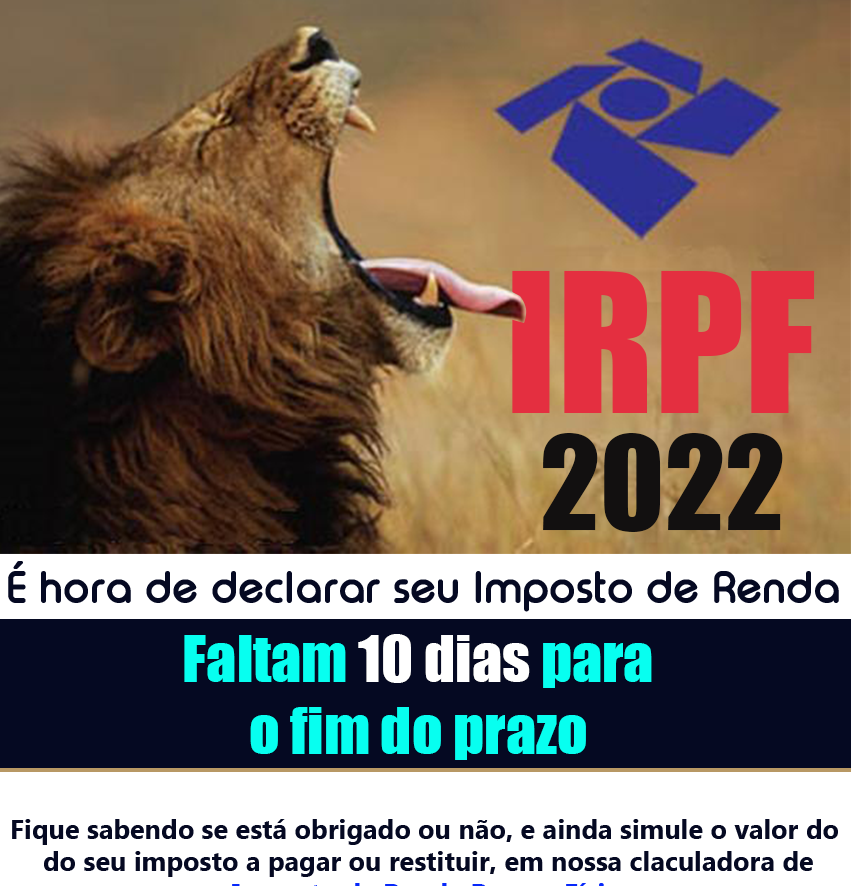
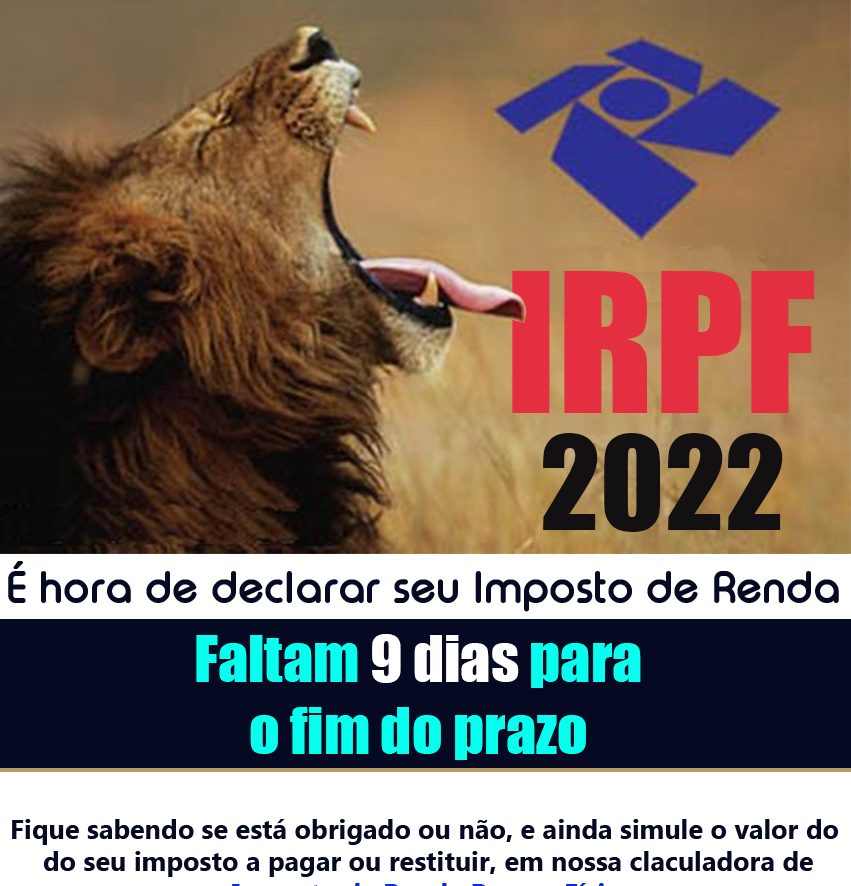
Commit img Prazo final IR 9 dias

Changed region(s): [[0.2139, 0.7009, 0.7638, 0.7923]]

diff --git a/src/site/Components/parceiros.jsx b/src/site/Components/parceiros.jsx
@@ -4,55 +4,55 @@ function Parceiros(){
     return <section id="parceiros">   
         <div className="parceiros-logos">  
         <div className="container">
-        <div className="row coluna1">
-            <div className="col"></div>
-            <div className="col"></div>
-            <div className="col">
-               <a href="https://imperio-dos-descartaveis.kyte.site/" target="_blank"><img src="/Images/Parceiros/ImperioDescartaveis.png"/></a>
+            <div className="row coluna1">
+                <div className="col"></div>
+                <div className="col"></div>
+                <div className="col">
+                <a href="https://imperio-dos-descartaveis.kyte.site/" target="_blank"><img src="/Images/Parceiros/ImperioDescartaveis.png"/></a>
+                </div>
+                <div className="col">
+                    <a href="https://api.whatsapp.com/send?phone=5581997780156" target="_blank"><img src="/Images/Parceiros/Diniz-contabilidade.png"/></a>
+                </div>
+                <div className="col">
+                    <a href="https://go.hotmart.com/H67767543F?ap=305a" target="_blank"><img src="/Images/Parceiros/Vargas.png"/></a>
+                </div>
+                <div className="col">
+                    <a href="https://api.whatsapp.com/send?phone=5581998753986" target="_blank"><img src="/Images/Parceiros/OGS.png"/></a>
+                </div>
+                <div className="col"></div>
+                <div className="col"></div>
             </div>
-            <div className="col">
-                <a href="https://api.whatsapp.com/send?phone=5581997780156" target="_blank"><img src="/Images/Parceiros/Diniz-contabilidade.png"/></a>
+            <div className="row coluna2">
+                <div className="col"></div>
+                <div className="col">
+                    <a href="https://aws.amazon.com/pt/" target="_blank"><img src="/Images/Parceiros/AWS.png"/></a>
+                </div>
+                <div className="col">
+                    <a href="/parceiro-certificacao-digital" target="_blank"><img src="/Images/Parceiros/Certificado.digital.png"/></a>
+                </div>
+                <div className="col">
+                    <a href="https://osayk.com.br/" target="_blank"><img src="/Images/Parceiros/Osayk.png"/></a>
+                </div>
+                <div className="col">
+                    <a href="https://jhmateriaisparaconstrucao.com/" target="_blank"><img src="/Images/Parceiros/JH.png"/></a>
+                </div>
+                <div className="col">
+                    <a href="https://github.com/" target="_blank"><img src="/Images/Parceiros/GitHub.png"/></a>
+                </div>
+                <div className="col">
+                    <a href="#" target="_blank"><img src="/Images/Parceiros/Torne-se-parceiro.png"/></a>
+                </div>
+                <div className="col"></div>
             </div>
-            <div className="col">
-                <a href="https://go.hotmart.com/H67767543F?ap=305a" target="_blank"><img src="/Images/Parceiros/Vargas.png"/></a>
-            </div>
-            <div className="col">
-                <a href="https://api.whatsapp.com/send?phone=5581998753986" target="_blank"><img src="/Images/Parceiros/OGS.png"/></a>
-            </div>
-            <div className="col"></div>
-            <div className="col"></div>
         </div>
-        <div className="row coluna2">
-            <div className="col"></div>
-            <div className="col">
-                <a href="https://aws.amazon.com/pt/" target="_blank"><img src="/Images/Parceiros/AWS.png"/></a>
-            </div>
-            <div className="col">
-                <a href="/parceiro-certificacao-digital" target="_blank"><img src="/Images/Parceiros/Certificado.digital.png"/></a>
-            </div>
-            <div className="col">
-                <a href="https://osayk.com.br/" target="_blank"><img src="/Images/Parceiros/Osayk.png"/></a>
-            </div>
-            <div className="col">
-                <a href="https://jhmateriaisparaconstrucao.com/" target="_blank"><img src="/Images/Parceiros/JH.png"/></a>
-            </div>
-            <div className="col">
-                <a href="https://github.com/" target="_blank"><img src="/Images/Parceiros/GitHub.png"/></a>
-            </div>
-            <div className="col">
-                <a href="#" target="_blank"><img src="/Images/Parceiros/Torne-se-parceiro.png"/></a>
-            </div>
-            <div className="col"></div>
-        </div>
+    </div>    
+    <div className="container-fluid">
         <div className="row">
-                <br></br>             
-        </div>        
+                <p className="position-parceiros-p">Parceiros</p>             
         </div>
-    </div>  
-    <div className="parceiros">
-     
+    </div>
+    <div className="parceiros"> 
      <div className="container">
-            
         <div className="row">
              <div className="col-lg-12">
                 <a href="https://bit.ly/3pOcj5d" target="_blank"><img src="/Images/Parceiros/Vargas-banner.png"/></a>

diff --git a/public/styles.css b/public/styles.css
@@ -187,10 +187,17 @@ body {
 #parceiros {
   background-color: #ffffff;
   padding-top: 5%;
-  }
+}
+.position-parceiros-p {
+  position: absolute;
+  color: #8d8d97;
+  font-family:Impact, Haettenschweiler, 'Arial Narrow Bold', sans-serif;
+  font-size: 15px;
+}
+
 
 .parceiros-logos {
-  padding: 0 13% 0 12%;
+  padding: 0 13% 1% 12%;
   background-color: #ffffff;
 }
 
